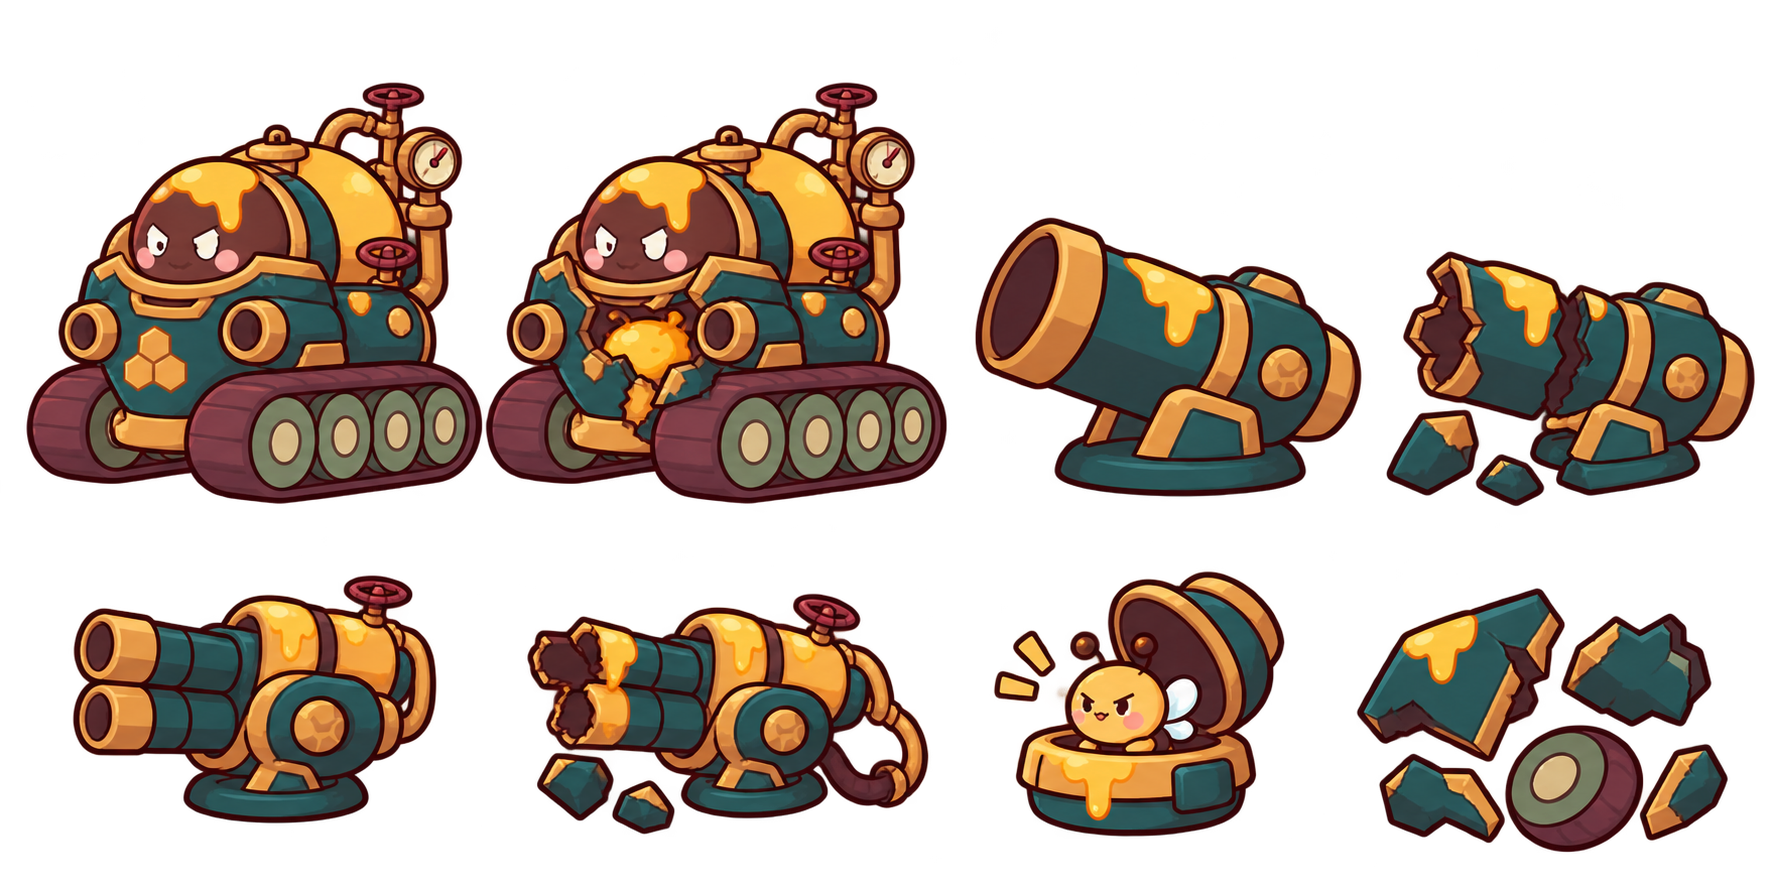
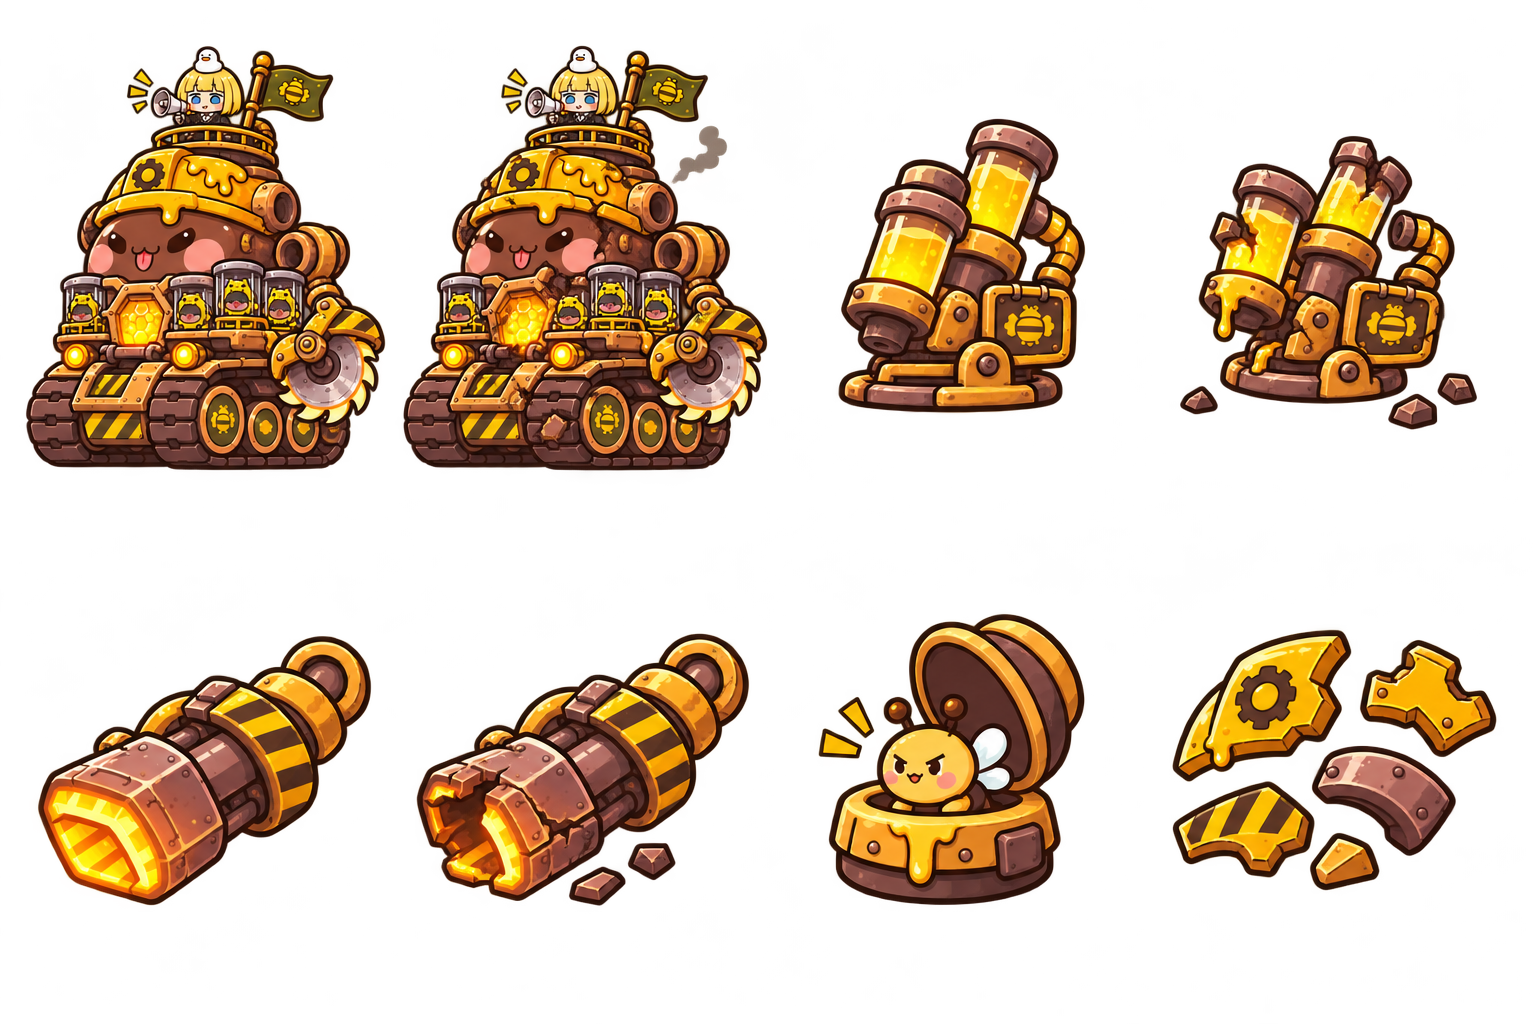
Replace factory boss and drop the painted tread overlay
The new factory boss sheet (honey bee mecha bulldozer) paints its own
treads like the new tank, so drawBossTracks and its helpers are removed
from both renderers; this also fixes test-boss-tracks, which broke when
the tank overlay was disabled in 5b855bc. Devlog updated.

diff --git a/web/visuals.js b/web/visuals.js
@@ -5,7 +5,7 @@ const clamp=(x,a,b)=>Math.max(a,Math.min(b,x));
 const DRIVE_ART=[[192,55,689,542],[835,210,1435,542],[104,673,906,915],[1016,542,1434,955]];
 // Town strip wraps at x=1467 (that column repeats column 0), so the redrawn brick wall tiles without a seam.
 const GROUND_ART=[[0,14,1467,260],[0,269,1536,505],[0,516,1536,736],[0,749,1536,1024]];
-const SOFT_BOSSES={"walker":{"dest":[[44,113,470,462],[44,113,470,462],[84,223,413,398],[98,232,443,415],[159,122,342,382],[156,116,343,382],[64,40,449,452],[68,74,433,383]],"source":[[8,142,384,450],[392,143,768,451],[768,206,1114,390],[1157,198,1503,382],[91,582,333,927],[461,552,703,897],[822,620,1082,898],[1177,630,1498,902]]},"cannon":{"dest":[[39,110,486,473],[39,110,486,473],[37,105,457,456],[91,176,447,455],[70,101,469,356],[69,98,486,362],[26,45,419,399],[28,54,454,400]],"source":[[26,82,482,504],[486,82,947,504],[975,218,1362,497],[1386,251,1755,506],[73,575,437,823],[527,594,928,834],[994,571,1285,837],[1357,588,1728,852]]},"ship":{"dest":[[66,82,465,446],[66,82,465,446],[68,206,437,443],[69,198,427,428],[75,96,436,404],[134,168,381,378],[101,59,409,444],[73,100,442,430]],"source":[[12,102,384,441],[396,102,768,441],[830,161,1114,344],[1206,163,1490,346],[36,629,353,899],[433,571,750,841],[834,613,1072,911],[1186,620,1501,901]]},"tank":{"dest":[[102,105,441,463],[102,105,441,463],[85,213,408,409],[105,223,385,393],[95,175,398,382],[69,148,388,366],[49,76,411,449],[83,149,447,435]],"source":[[12,96,384,489],[396,95,768,488],[768,193,1137,418],[1157,189,1526,414],[80,680,342,859],[454,680,716,859],[838,625,1086,880],[1174,628,1494,880]]}};
+const SOFT_BOSSES={"walker":{"dest":[[44,113,470,462],[44,113,470,462],[84,223,413,398],[98,232,443,415],[159,122,342,382],[156,116,343,382],[64,40,449,452],[68,74,433,383]],"source":[[8,142,384,450],[392,143,768,451],[768,206,1114,390],[1157,198,1503,382],[91,582,333,927],[461,552,703,897],[822,620,1082,898],[1177,630,1498,902]]},"cannon":{"dest":[[110,110,415,473],[110,110,415,473],[100,105,394,456],[152,176,386,455],[112,101,427,356],[115,98,440,362],[60,45,385,399],[28,55,454,399]],"source":[[26,46,384,471],[406,46,764,471],[838,118,1085,413],[1203,109,1450,404],[38,636,371,906],[416,631,749,901],[818,614,1085,905],[1172,629,1497,891]]},"ship":{"dest":[[66,82,465,446],[66,82,465,446],[68,206,437,443],[69,198,427,428],[75,96,436,404],[134,168,381,378],[101,59,409,444],[73,100,442,430]],"source":[[12,102,384,441],[396,102,768,441],[830,161,1114,344],[1206,163,1490,346],[36,629,353,899],[433,571,750,841],[834,613,1072,911],[1186,620,1501,901]]},"tank":{"dest":[[102,105,441,463],[102,105,441,463],[85,213,408,409],[105,223,385,393],[95,175,398,382],[69,148,388,366],[49,76,411,449],[83,149,447,435]],"source":[[12,96,384,489],[396,95,768,488],[768,193,1137,418],[1157,189,1526,414],[80,680,342,859],[454,680,716,859],[838,625,1086,880],[1174,628,1494,880]]}};
 // A capsule in local track coordinates. Arc length keeps links evenly spaced.
 function treadPoint(distance,length,radius){
  const total=2*length+2*Math.PI*radius;let s=((distance%total)+total)%total;

diff --git a/web/render.js b/web/render.js
@@ -478,36 +478,10 @@ function bossSprite(sheet,i,x,y,size,o={}){
  const q=HoneyVisuals.bossArt(sheet,i),a=q.source,d=q.dest,k=size/512;
  c.save();c.translate(x,y);c.rotate(o.rot||0);c.scale(o.sx||1,o.sy||1);if(o.filter)c.filter=o.filter;
  c.drawImage(tex['boss_'+sheet],a[0],a[1],a[2]-a[0],a[3]-a[1],(d[0]-512*(o.cx??.5))*k,(d[1]-512*(o.base??.5))*k,(d[2]-d[0])*k,(d[3]-d[1])*k);c.restore();}
-function driveSprite(i,x,y,w,h,rot=0){
- const a=HoneyVisuals.driveArt[i];c.save();c.translate(x,y);c.rotate(rot);
- c.drawImage(tex.driveParts,a[0],a[1],a[2]-a[0],a[3]-a[1],-w/2,-h/2,w,h);c.restore();}
-function trackFace(x,y,w,r,distance){
- for(let i=0;i<Math.ceil(r*2/13);i++){
-  const v=-r+((-distance%13)+13)%13+i*13;if(v>=r)continue;
-  const edge=Math.sqrt(Math.max(0,1-v*v/(r*r)));
-  driveSprite(2,x+4*(1-edge),y+v,w*(.55+.45*edge),9);}}
-function trackSidePoint(distance){
- const p=HoneyVisuals.treadPoint(distance,200,40),t=clamp(p.x/200,0,1);
- return {x:p.x*.72,y:p.y*(1-.24*t)-p.x*.09,visible:p.y>0||p.x>200};}
-function drawBossTracks(b,r){
- // The choco tank sheet paints its own treads and fish wheels; only the cannon still gets the animated overlay.
- if(b.type!=='cannon')return;
- const d=HoneyVisuals.bossArt(r.sheet,0).dest,w=d[2]-d[0],h=d[3]-d[1];
- const distance=(b.track||0)*(b.flip?-1:1)/r.k*400/w;
- c.save();c.translate(b.x+(d[0]-256)*r.k,b.y+(d[1]-512*r.base)*r.k);c.scale(w*r.k/400,h*r.k/360);
- const cy=b.type==='cannon'?310:306,total=400+80*Math.PI;
- // Painted shoes follow the visible lower/rear belt; upper belt remains behind the armor.
- for(let i=0;i<40;i++){
-  const t=i*total/40+distance/.72,p=trackSidePoint(t);if(!p.visible)continue;
-  const q=trackSidePoint(t+.2);driveSprite(1,224+p.x,cy+p.y,14,8,Math.atan2(q.y-p.y,q.x-p.x));}
- trackFace(36,cy-12,40,34,distance);trackFace(164,cy,58,43,distance);
- const wheels=[[0,0,29,40],[56,-6,25,36],[102,-12,23,33],[145,-18,20,30]];
- for(const [x,y,rx,ry] of wheels){c.save();c.translate(224+x,cy+y);c.scale(rx,ry);c.rotate(distance/ry);driveSprite(0,0,0,2,2);c.restore();}
- c.restore();}
 function drawBossBody(b,r,flash){
  c.save();if(b.dead){c.translate(b.x,b.y);c.scale(1,1-.32*clamp((b.sink||0)/.35,0,1));c.translate(-b.x,-b.y);}
- bossSprite(r.sheet,b.phase===2||b.dead?1:0,b.x,b.y,512*r.k,{base:r.base,filter:flash});
- c.save();if(flash)c.filter=flash;drawBossTracks(b,r);c.restore();c.restore();}
+ // Tank and cannon sheets paint their own treads and wheels, so the body is a single sprite for every boss.
+ bossSprite(r.sheet,b.phase===2||b.dead?1:0,b.x,b.y,512*r.k,{base:r.base,filter:flash});c.restore();}
 function drawStoryTank(x,y,travel){
  const r={...BOSS_RIG.tank,k:.94},S=512*r.k,b={type:'tank',x,y,track:travel,flip:false,phase:1,dead:false};
  drawBossBody(b,r);

diff --git a/web/game.js b/web/game.js
@@ -139,7 +139,7 @@ const BOSS_RIG={
   H:{u:.6,v:.22,pu:.5,pv:.86,ps:.38}},
  cannon:{sheet:'cannon',k:1.15,base:.924,box:[39,110,486,473],home:330,core:[.53,.5],nameA:'꿀 박격포 파괴',nameB:'꿀 화염방사기 파괴',
   A:{u:.7,v:.4,pu:.5,pv:.86,ps:.38,mu:.17,mv:.33,box:[37,105,458,456],hp:.22},
-  B:{u:.22,v:.64,pu:.82,pv:.55,ps:.45,mu:.15,mv:.45,box:[70,100,469,357],hp:.18},
+  B:{u:.32,v:.64,pu:.82,pv:.55,ps:.45,mu:.15,mv:.45,box:[70,100,469,357],hp:.18},
   H:{u:.84,v:.3,pu:.45,pv:.74,ps:.38}},
  boat:{sheet:'ship',k:1.4,base:.87,box:[54,82,476,446],home:260,core:[.54,.5],nameA:'갑판 포탑 파괴',nameB:'크레인 파괴',left:true,
   A:{u:.4,v:.36,pu:.6,pv:.86,ps:.36,mu:.17,mv:.43,box:[68,189,437,460],hp:.22,aim:.6},

diff --git a/docs/devlog/2026-11-10.md b/docs/devlog/2026-11-10.md
@@ -1,6 +1,6 @@
 # 개발일지 — 2026-11-10
 
-조작감 보정, 구역이 안 넘어가던 버그 수정, 인게임 배경 아트 전면 교체, 보스 3종 교체까지 정리한 기록입니다.
+조작감 보정, 구역이 안 넘어가던 버그 수정, 인게임 배경 아트 전면 교체, 보스 4종 교체까지 정리한 기록입니다.
 스크린샷은 모두 Godot 4.7.1 빌드에서 직접 캡처했습니다(`--capture` 모드, 1280×720).
 
 ![마을 스테이지](img/2026-11-10/town.jpg)
@@ -54,14 +54,14 @@
 | 공장 | 항구 |
 |---|---|
 | ![공장](img/2026-11-10/factory.jpg) | ![항구](img/2026-11-10/harbor.jpg) |
-| **요새** | **공장 보스전 (이전 디자인)** |
+| **요새** | **공장 보스전 (교체 전 디자인)** |
 | ![요새](img/2026-11-10/fortress.jpg) | ![공장 보스전](img/2026-11-10/boss_factory.jpg) |
 
 > 참고: 그 전에 했던 배경 이음매 작업(좌우 반전 대신 반복 타일, `tools/bg-seamless.py` → `backgrounds_wrap.png`)은 구역별 배경 패널로 바뀌면서 인게임에서는 더 이상 쓰이지 않습니다.
 
-## 4. 보스 3종 교체
+## 4. 보스 4종 교체
 
-새 보스 디자인 그림 3장을 받아 마을, 항구, 요새 보스를 바꿨습니다. 공장 보스(오리고기 꿀 공성포)는 새 그림을 받으면 바꿉니다.
+새 보스 디자인 그림 4장을 받아 네 스테이지 보스를 모두 바꿨습니다.
 
 보스는 4열 x 2행 부품 시트(몸체, 부서진 몸체, 무기 A·B와 각 파손형, 보급 해치, 파편)를 조립해서 그립니다. 받은 그림을 디자인 기준으로 같은 8칸 시트를 Codex 이미지 생성으로 새로 그렸고, `tools/pack-boss-sheet.py`로 칸별 영역을 측정해 `SOFT_BOSSES`(`web/visuals.js`, `scripts/visual_motion.gd`)를 갱신했습니다. 새 그림은 기존 표시 영역 안에 맞춰 넣어 판정 범위가 크게 바뀌지 않게 했습니다.
 
@@ -69,16 +69,20 @@
 |---|---|---|---|
 | 마을 | 꿀방울 허니 비행선 | 기수의 꿀 대포 | 꿀 미사일 포드 |
 | 항구 | 꿀 메카 크랩 | 4연장 개틀링 | 화물 크레인 |
+| 공장 | 꿀벌 메카 불도저 | 꿀 박격포 (등의 꿀 탱크) | 꿀 화염방사 팔 |
 | 요새 | 꿀방울 초코 탱크 | 꿀 주포 | 측면 개틀링 |
 
 - 무기 B는 패턴 이름에 맞게 서로 바꿔 끼웠습니다. 마을 보스는 "미사일 폭격", 항구 보스는 "크레인 투하" 패턴이라 미사일 포드는 비행선에, 크레인은 크랩에 붙였습니다.
 - 무기 부착 위치(`BOSS_RIG`)를 조정했습니다. 탱크 측면 개틀링은 얼굴을 가려서 몸통 아래로, 크랩 크레인은 등 뒤로 옮겼습니다.
-- 새 탱크 그림에는 궤도가 그려져 있어서, 탱크 위에 바퀴와 궤도를 덧그리던 처리는 껐습니다(공장 보스만 유지). 그래서 지금 탱크 궤도는 움직이지 않습니다.
+- 새 탱크와 공장 보스 그림에는 궤도가 그려져 있어서, 몸체 위에 바퀴와 궤도를 덧그리던 처리(`drawBossTracks`)를 양쪽 렌더러에서 지웠습니다. 그래서 지금 두 보스의 궤도는 움직이지 않습니다. 이동량(`b.track`) 시뮬레이션은 그대로 남아 있습니다.
+- 탱크만 바꿨을 때 이 덧그리기 테스트(`tools/test-boss-tracks.cjs`)가 깨진 채로 커밋됐습니다(`5b855bc`). 이번에 덧그리기를 지우면서 테스트에서도 해당 부분을 뺐습니다.
 - 이전 시트는 `build/boss_restyle/old/`에 백업했습니다.
 
-| 마을 | 항구 | 요새 |
-|---|---|---|
-| ![마을 보스](img/2026-11-10/boss_town_airship.jpg) | ![항구 보스](img/2026-11-10/boss_harbor_crab.jpg) | ![요새 보스](img/2026-11-10/boss_fortress_tank.jpg) |
+| 마을 | 공장 |
+|---|---|
+| ![마을 보스](img/2026-11-10/boss_town_airship.jpg) | ![공장 보스](img/2026-11-10/boss_factory_mecha.jpg) |
+| **항구** | **요새** |
+| ![항구 보스](img/2026-11-10/boss_harbor_crab.jpg) | ![요새 보스](img/2026-11-10/boss_fortress_tank.jpg) |
 
 ## 테스트
 
